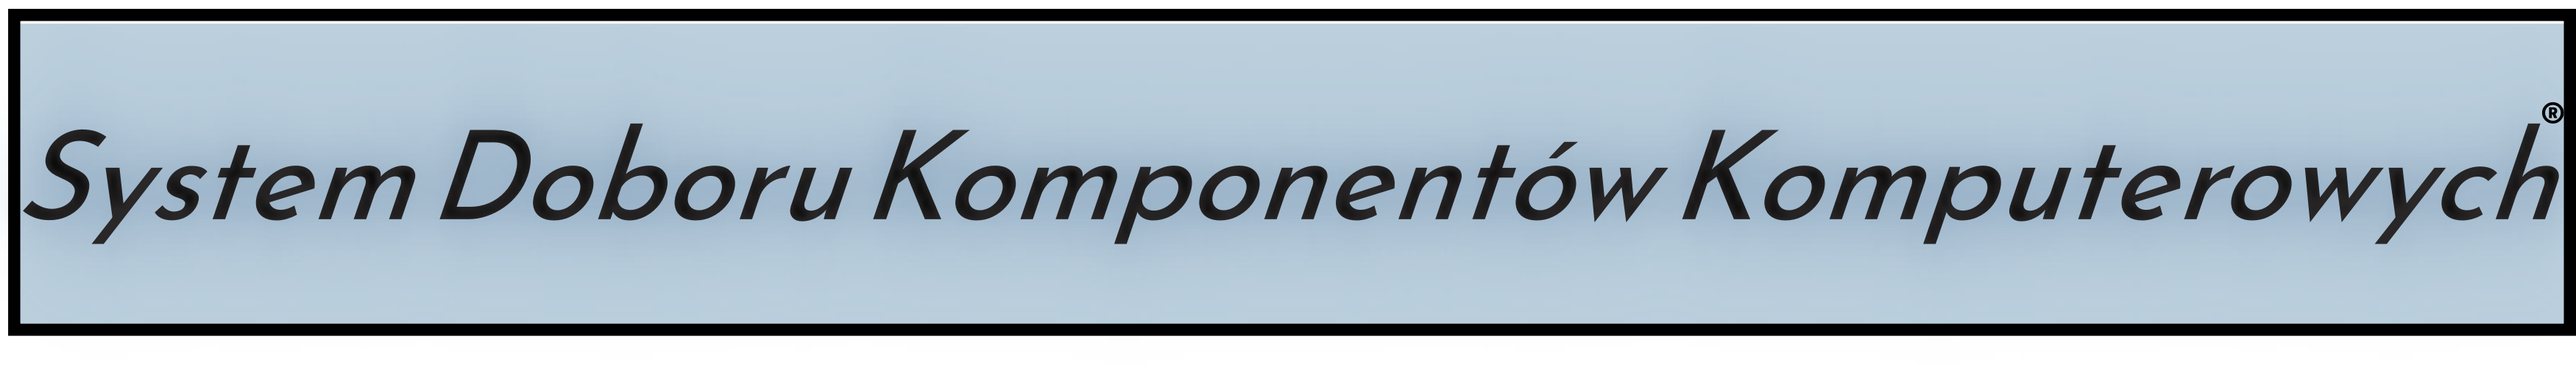
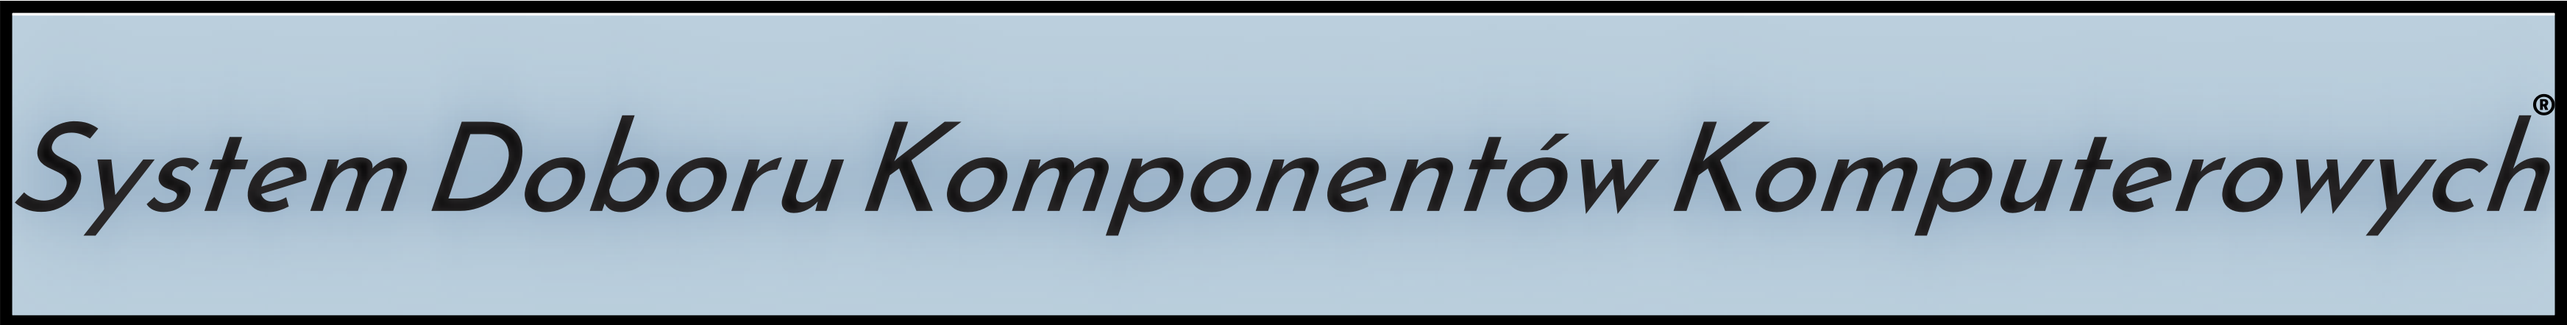
podgląd dodany
Gratulacje urzytkowniku, właśnie stałeś sie pełnoprawnym czczicielem Netanyachu.

Changed region(s): [[0.0, 0.0, 1.0, 1.0], [0.9685, 0.2647, 0.9997, 0.3529]]

diff --git a/styl_1.css b/styl_1.css
@@ -46,10 +46,15 @@ header
 #logo
 {
     height:110px;
-    margin-left: 870px;
+    margin-left: 600px;
+}
+#system
+{
+    height:110px;
+     margin-left:269px;
 }
 #chiken
 {
 height:100px;
- margin-left: 870px;
+margin-left: 870px;
 }

diff --git a/index.php b/index.php
@@ -20,6 +20,8 @@
 </aside>
  <header id="head">
  <img id="logo" src="sdkk solutions kadr.png"/>
+ <a href="czekibreki.png"> <img id="system" src="system.png"> </a>
+
 
 </header>
 
